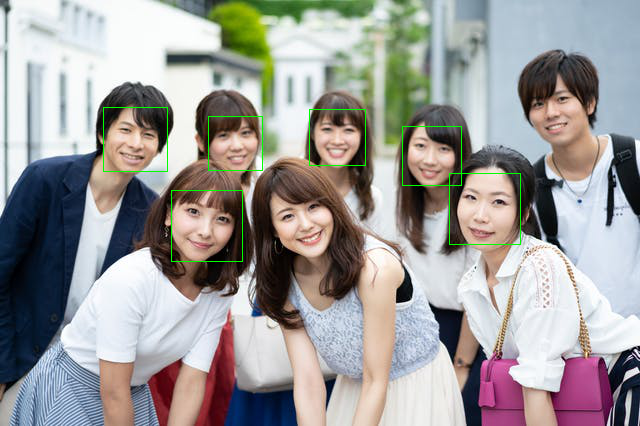
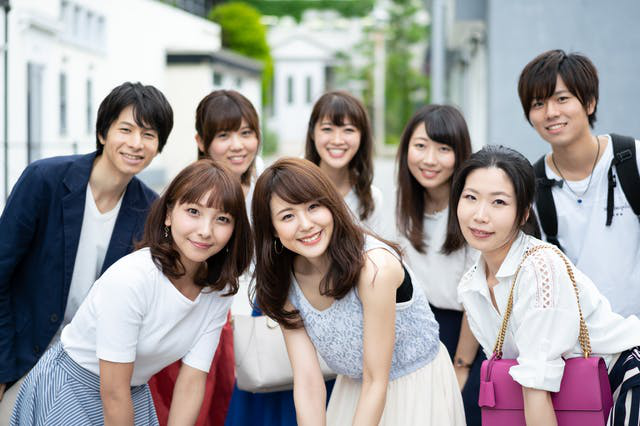
何番目にぴえんをつけるかの入力を待つ

Changed region(s): [[0.7188, 0.3967, 0.75, 0.4272], [0.6875, 0.4272, 0.7188, 0.4577]]

diff --git a/src/HelloOpenCV.java b/src/HelloOpenCV.java
@@ -1,11 +1,12 @@
+import java.util.ArrayList;
+import java.util.InputMismatchException;
+import java.util.Scanner;
+
 import org.opencv.core.Core;
 import org.opencv.core.Mat;
 import org.opencv.core.MatOfRect;
-import org.opencv.core.Point;
 import org.opencv.core.Rect;
-import org.opencv.core.Scalar;
 import org.opencv.imgcodecs.Imgcodecs;
-import org.opencv.imgproc.Imgproc;
 import org.opencv.objdetect.CascadeClassifier;
 //
 // Detects faces in an image, draws boxes around them, and writes the results
@@ -13,7 +14,7 @@ import org.opencv.objdetect.CascadeClassifier;
 //
 class DetectFaceDemo {
   public void run() {
-    System.out.println("\nRunning DetectFaceDemo");
+//    System.out.println("\nRunning DetectFaceDemo");
     // Create a face detector from the cascade file in the resources
     // directory.
     CascadeClassifier faceDetector = new CascadeClassifier(getClass().getResource("/haarcascade_frontalface_alt.xml").getPath());
@@ -23,21 +24,14 @@ class DetectFaceDemo {
     MatOfRect faceDetections = new MatOfRect();
     faceDetector.detectMultiScale(image, faceDetections);
     System.out.println(String.format("%sつの顔を取得しました。", faceDetections.toArray().length));
-    // Draw a bounding box around each face.
-    for (Rect rect : faceDetections.toArray()) {
-//    	System.out.println(rect.x);
-        Imgproc.rectangle(image, new Point(rect.x, rect.y), new Point(rect.x + rect.width, rect.y + rect.height), new Scalar(0, 255, 0));
-    }
 
+    //x座標順に並び替え
     int size = faceDetections.toArray().length;
-
     Rect[] test = new Rect[size];
     for(int i=0 ; i<size ; i++) {
     	test[i] = faceDetections.toArray()[i];
-//    	System.out.println(test[i]);
     }
 
-    //ソート
     for(int i=0 ; i<size ; i++) {
     	int j = i;
     	while(j>0 && test[j-1].x > test[j].x) {
@@ -48,9 +42,30 @@ class DetectFaceDemo {
     	}
     }
 
-    for(int i=0 ; i<size ; i++) {
-    	System.out.println(test[i].x);
+//    for(int i=0 ; i<size ; i++) {
+//    	System.out.println(test[i].x);
+//    }
+
+    Scanner sc = new Scanner(System.in);
+    boolean flag = true;
+    ArrayList<Integer> pienRegisterList = new ArrayList<Integer>();
+
+    while(flag) {
+        System.out.print("左から何番目の人にぴえんをつけますか？: ");
+        int n;
+        try {
+            n = sc.nextInt();
+		} catch (InputMismatchException e) {
+			System.out.println("数値を入力してください");
+			continue;
+		}
+//        Integer N = new Integer(n);
+        pienRegisterList.add(n);
+
     }
+
+
+
 
 
     // Save the visualized detection.
